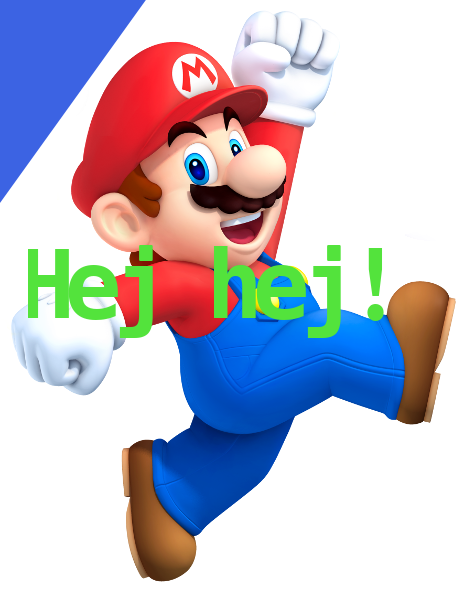
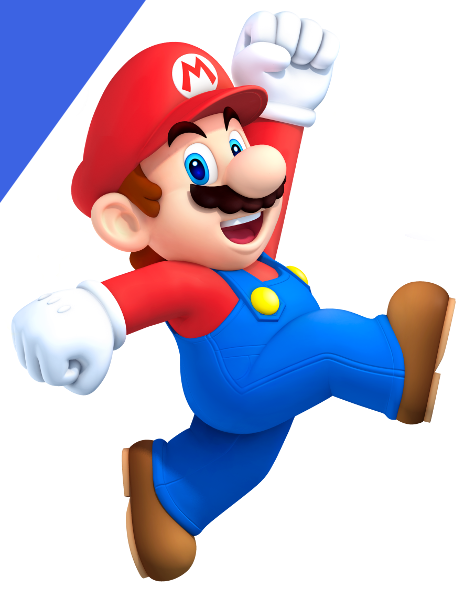
Wiggly wiggly shader!

Changed region(s): [[0.4421, 0.3946, 0.7368, 0.5767], [0.0589, 0.3946, 0.3242, 0.5767], [0.7663, 0.3946, 0.8253, 0.5464]]

diff --git a/src/main.cpp b/src/main.cpp
@@ -70,17 +70,39 @@ void game_main() {
 		printf("[Init] Failed to intalize GLEW - Extension Wrangler\n");
 		assert(0);
 	}
+
+	/////////////
+	// INIT GL //
+	/////////////
 	
 	// GL default settings.
 	printf("[OpenGL] Version: %s\n", glGetString(GL_VERSION));
 	printf("[OpenGL] Vendor: %s\n", glGetString(GL_VENDOR));
 
-	// We're doing 2D, so this should almost always be off.
-	glDisable(GL_DEPTH_TEST);
-
+	glEnable(GL_DEPTH_TEST);
 	glEnable(GL_BLEND);
 	glBlendFunc(GL_SRC_ALPHA, GL_ONE_MINUS_SRC_ALPHA);
+
+	// Setup the offscreen frame buffer.
+	GLuint post_processing_buffer;
+	glGenFramebuffers(1, &post_processing_buffer);
+	glBindFramebuffer(GL_FRAMEBUFFER, post_processing_buffer);
+
+	GLuint post_processing_texture;
+	glGenTextures(1, &post_processing_texture);
+	glBindTexture(GL_TEXTURE_2D, post_processing_texture);
+	glTexImage2D(GL_TEXTURE_2D, 0, GL_RGB, _g.window_width, _g.window_height, 0, GL_RGB, GL_UNSIGNED_BYTE, 0);
+	glTexParameteri(GL_TEXTURE_2D, GL_TEXTURE_MIN_FILTER, GL_NEAREST);
+	glTexParameteri(GL_TEXTURE_2D, GL_TEXTURE_MAG_FILTER, GL_NEAREST);
 	
+	GLuint post_processing_depth;
+	glGenRenderbuffers(1, &post_processing_depth);
+	glBindRenderbuffer(GL_RENDERBUFFER, post_processing_depth);
+	glRenderbufferStorage(GL_RENDERBUFFER, GL_DEPTH_COMPONENT, _g.window_width, _g.window_height);
+
+	glFramebufferTexture(GL_FRAMEBUFFER, GL_COLOR_ATTACHMENT0, post_processing_texture, 0);
+	glFramebufferRenderbuffer(GL_FRAMEBUFFER, GL_DEPTH_ATTACHMENT, GL_RENDERBUFFER, post_processing_depth);
+
 	glClearColor(0.75, 0.3, 0.21, 1.0);
 
 	Array<Vertex> verticies;
@@ -95,15 +117,17 @@ void game_main() {
 	verticies.push_back(Vertex(-0.5, -0.5, 0, 1));
 
 	quad_mesh = new_mesh(verticies);
-	Shader color_shader;// = new_shader("res/2d_color.glsl", "2d_color");
+	Shader color_shader;
 	register_hotloadable_asset(hot_loader, &color_shader, "res/2d_color.glsl", "2d_color");
+	Shader post_process_shader;
+	register_hotloadable_asset(hot_loader, &post_process_shader, "res/post_process.glsl", "post");
 
 	Texture mario;
 	register_hotloadable_asset(hot_loader, &mario, "res/mario");
 
 	float t = 0.0f;
 	while (!_g.should_quit) {
-		t += 0.01f;
+		t += 0.05f;
 		glfwPollEvents();
 		if (glfwGetKey(_g.window, GLFW_KEY_ESCAPE) == GLFW_PRESS) {
 			_g.should_quit = true;
@@ -111,23 +135,58 @@ void game_main() {
 
 		update_loader(hot_loader);
 
+		glBindFramebuffer(GL_FRAMEBUFFER, post_processing_buffer);
+		glViewport(0, 0, _g.window_width, _g.window_height);
+		
+		glClearColor(0.0, 0.8, 0.21, 1.0);
+		glClear(GL_DEPTH_BUFFER_BIT | GL_COLOR_BUFFER_BIT);
+
+		//glBindFramebuffer(GL_FRAMEBUFFER, 0);
 		use_shader(color_shader);
 		bind_texture(mario, 0);
-		GLint loc = glGetUniformLocation(color_shader.program, "sprite");
-		glUniform1i(loc, 0);
+		GLint sprite = glGetUniformLocation(color_shader.program, "sprite");
+		glUniform1i(sprite, 0);
+
+		GLuint loc = glGetUniformLocation(color_shader.program, "layer");
+
+		GLint x_loc = glGetUniformLocation(color_shader.program, "x");
+		GLint y_loc = glGetUniformLocation(color_shader.program, "y");
+		GLint color_scale_loc = glGetUniformLocation(color_shader.program, "color_scale");
+
+		glUniform1f(x_loc, 0.2);
+		glUniform1f(y_loc, -0.2);
+		glUniform1f(color_scale_loc, 0.1);
+
+		glUniform1f(loc, sin(t));
 		draw_mesh(quad_mesh);
 
-		glBegin(GL_TRIANGLES);
-		{
-			glColor3f(0.0f, 1.0f, 1.0f);
-			glVertex2f(0, sin(t));
-			glVertex2f(1, 1);
-			glVertex2f(1, -1);
-		}
-		glEnd();
+		glUniform1f(x_loc, -0.2);
+		glUniform1f(y_loc, 0.2);
+		glUniform1f(color_scale_loc, 1.0f);
+
+		glUniform1f(loc, 0);
+		draw_mesh(quad_mesh);
+
+		glBindFramebuffer(GL_FRAMEBUFFER, 0);
+		glViewport(0, 0, _g.window_width, _g.window_height);
+
+		GLuint screen_location = glGetUniformLocation(post_process_shader.program, "screen");
+		use_shader(post_process_shader);
+		glUniform1i(screen_location, 0);
+		glActiveTexture(GL_TEXTURE0);
+		glBindTexture(GL_TEXTURE_2D, post_processing_texture);
+
+		glUniform1f(glGetUniformLocation(post_process_shader.program, "time"), t);
+
+		//
+		// SPOILER! The framebuffers aren't working, should poorbably fix that...
+		//
+
+		draw_mesh(quad_mesh);
 
 		glfwSwapBuffers(_g.window);
 		glClear(GL_DEPTH_BUFFER_BIT | GL_COLOR_BUFFER_BIT);
+		glClearColor(0.9, 0.8, 0.21, 1.0);
 	}
 
 	delete_texture(mario);

diff --git a/README.md b/README.md
@@ -2,9 +2,6 @@
 
 Think about what a hash map is and how it should work.
 
-- OpenGL image loading.
-- STB image(?)
-- hotloader asset image.
 - OpenAL static linking
 - Input
 Can this be simplified in any way?
